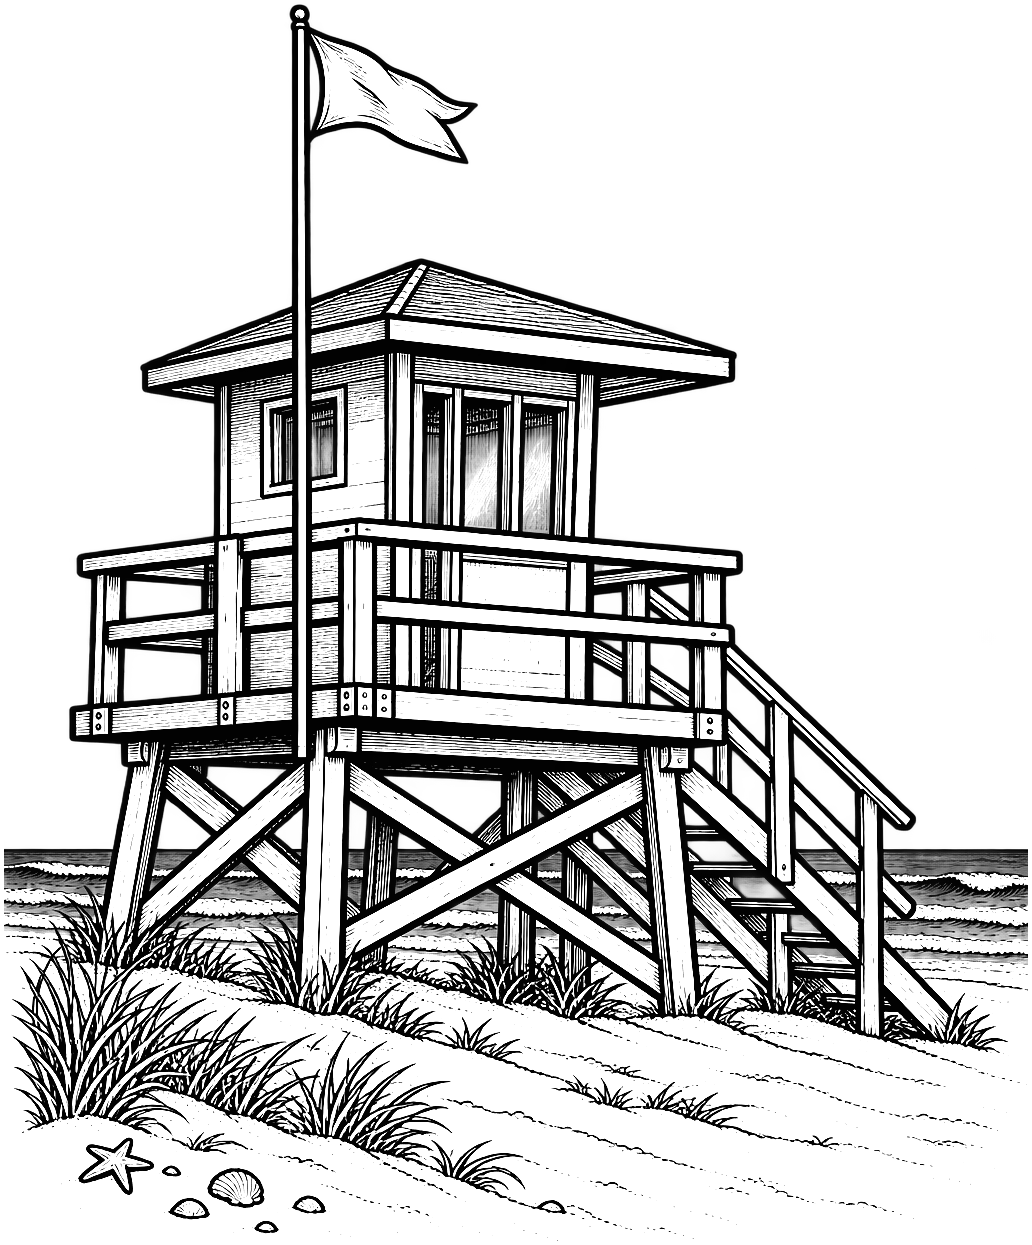
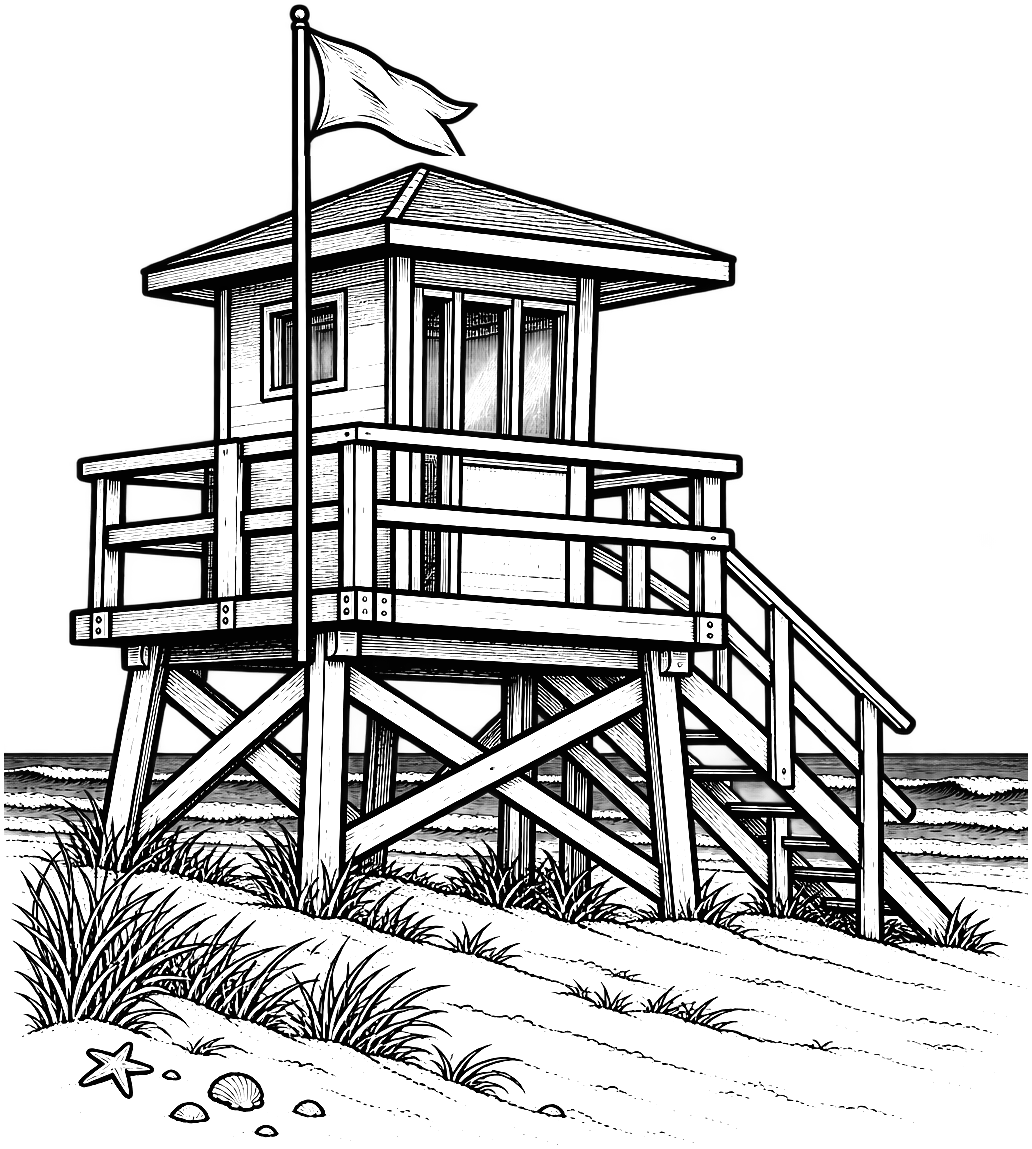
fix: shorter flag pole on the lifeguard stand
The flag and the top of the pole slide 96px down toward the roof and the
empty top is trimmed; the art version is bumped so browsers fetch it.

Claude-Session: https://claude.ai/code/session_01HZSsdkQTuoy9rc1cHMC1HG

diff --git a/src/components/beachmag/beach-figure.tsx b/src/components/beachmag/beach-figure.tsx
@@ -3,7 +3,7 @@ import type { CSSProperties } from "react";
 export type BeachFigureName = "beach-girl" | "lifeguard-stand" | "surfer-guy";
 
 // Bump when the files in public/art change, so browsers fetch the new ones.
-const ART_VERSION = "2";
+const ART_VERSION = "3";
 
 /**
  * A figure cut from the beach line drawing (public/art): the file's alpha is
